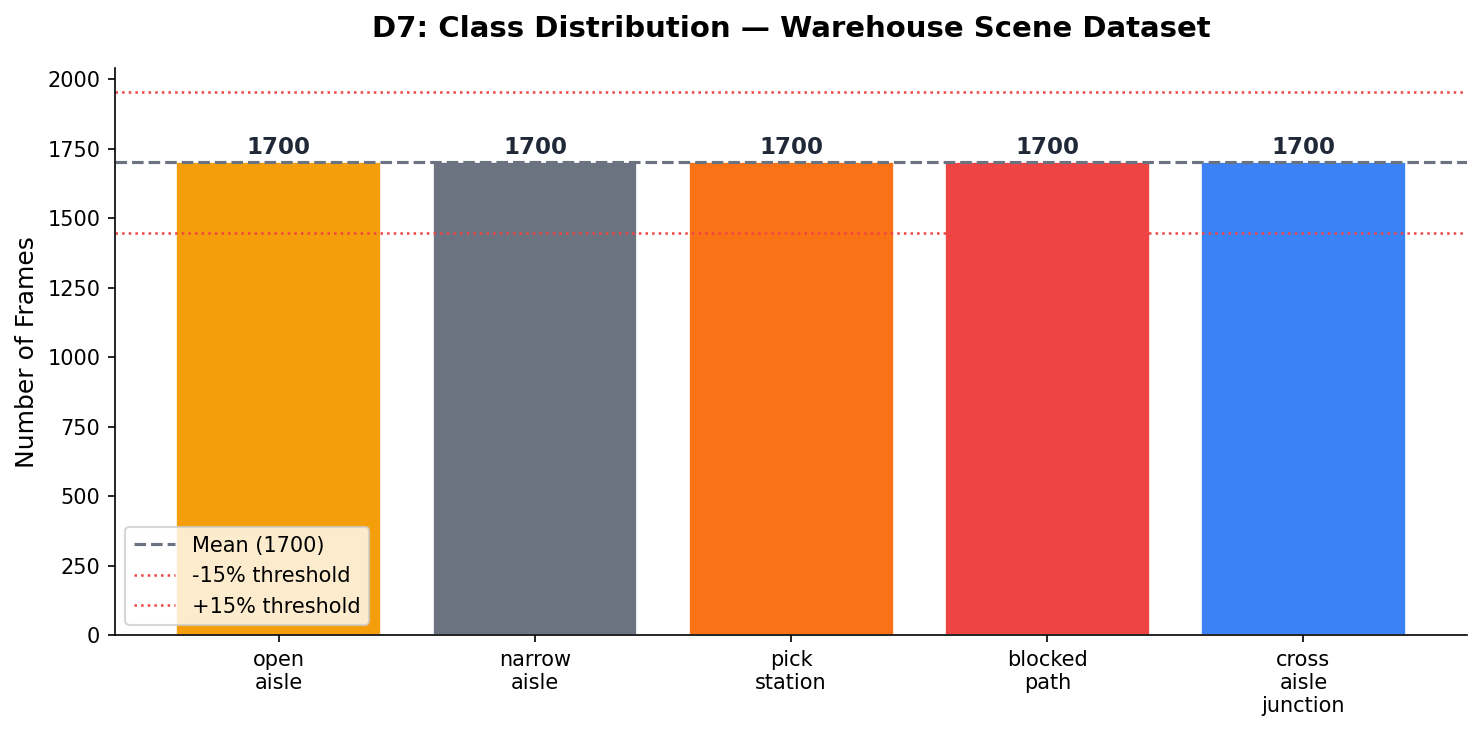
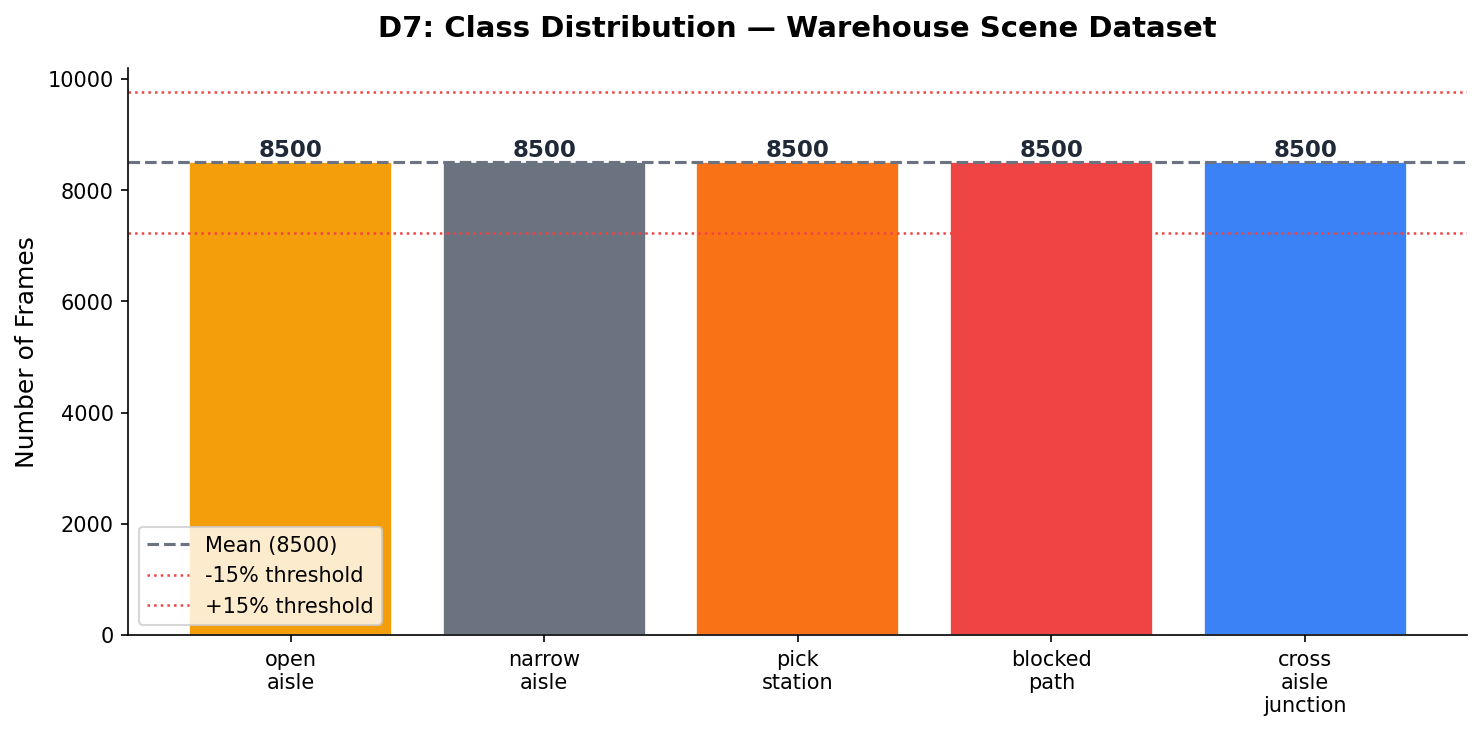
fix: group-wise split to eliminate data leakage

diff --git a/src/warehouse_dataset.py b/src/warehouse_dataset.py
@@ -8,7 +8,7 @@ import torch
 from torch.utils.data import Dataset, DataLoader
 import albumentations as A
 from albumentations.pytorch import ToTensorV2
-from sklearn.model_selection import train_test_split
+from sklearn.model_selection import GroupShuffleSplit
 
 SCENE_CLASSES = {
     0: 'open_aisle',
@@ -95,26 +95,80 @@ class WarehouseSceneDataset(Dataset):
         return self.CLASS_NAMES[idx]
 
 
-def make_stratified_splits(labels_csv: str,train_ratio=0.70,val_ratio=0.15,test_ratio=0.15,random_state=42):
+def make_stratified_splits(
+    labels_csv: str,
+    train_ratio=0.70,
+    val_ratio=0.15,
+    test_ratio=0.15,
+    random_state=42
+):
 
     assert abs(train_ratio + val_ratio + test_ratio - 1.0) < 1e-6, \
         'Split ratios must sum to 1.0'
 
     df = pd.read_csv(labels_csv)
 
-    train_df, temp_df = train_test_split(
-        df,
+    groups = df['env_run']
+
+    # First split: train vs temp
+    gss1 = GroupShuffleSplit(
+        n_splits=1,
         test_size=(val_ratio + test_ratio),
-        stratify=df['class_idx'],
         random_state=random_state
     )
 
-    val_df, test_df = train_test_split(
-        temp_df,
-        test_size=(test_ratio / (val_ratio + test_ratio)),
-        stratify=temp_df['class_idx'],
+    train_idx, temp_idx = next(
+        gss1.split(df, groups=groups)
+    )
+
+    train_df = df.iloc[train_idx]
+    temp_df = df.iloc[temp_idx]
+
+    # Second split: val vs test
+    temp_groups = temp_df['env_run']
+
+    gss2 = GroupShuffleSplit(
+        n_splits=1,
+        test_size=(
+            test_ratio /
+            (val_ratio + test_ratio)
+        ),
         random_state=random_state
     )
+
+    val_idx, test_idx = next(
+        gss2.split(
+            temp_df,
+            groups=temp_groups
+        )
+    )
+
+    val_df = temp_df.iloc[val_idx]
+    test_df = temp_df.iloc[test_idx]
+
+    # Leakage checks
+    train_runs = set(
+        train_df['env_run'].unique()
+    )
+
+    val_runs = set(
+        val_df['env_run'].unique()
+    )
+
+    test_runs = set(
+        test_df['env_run'].unique()
+    )
+
+    assert train_runs.isdisjoint(val_runs), \
+        "LEAK: train/val share runs"
+
+    assert train_runs.isdisjoint(test_runs), \
+        "LEAK: train/test share runs"
+
+    assert val_runs.isdisjoint(test_runs), \
+        "LEAK: val/test share runs"
+
+    print("No leakage! Splits are clean.")
 
     return train_df, val_df, test_df
 
